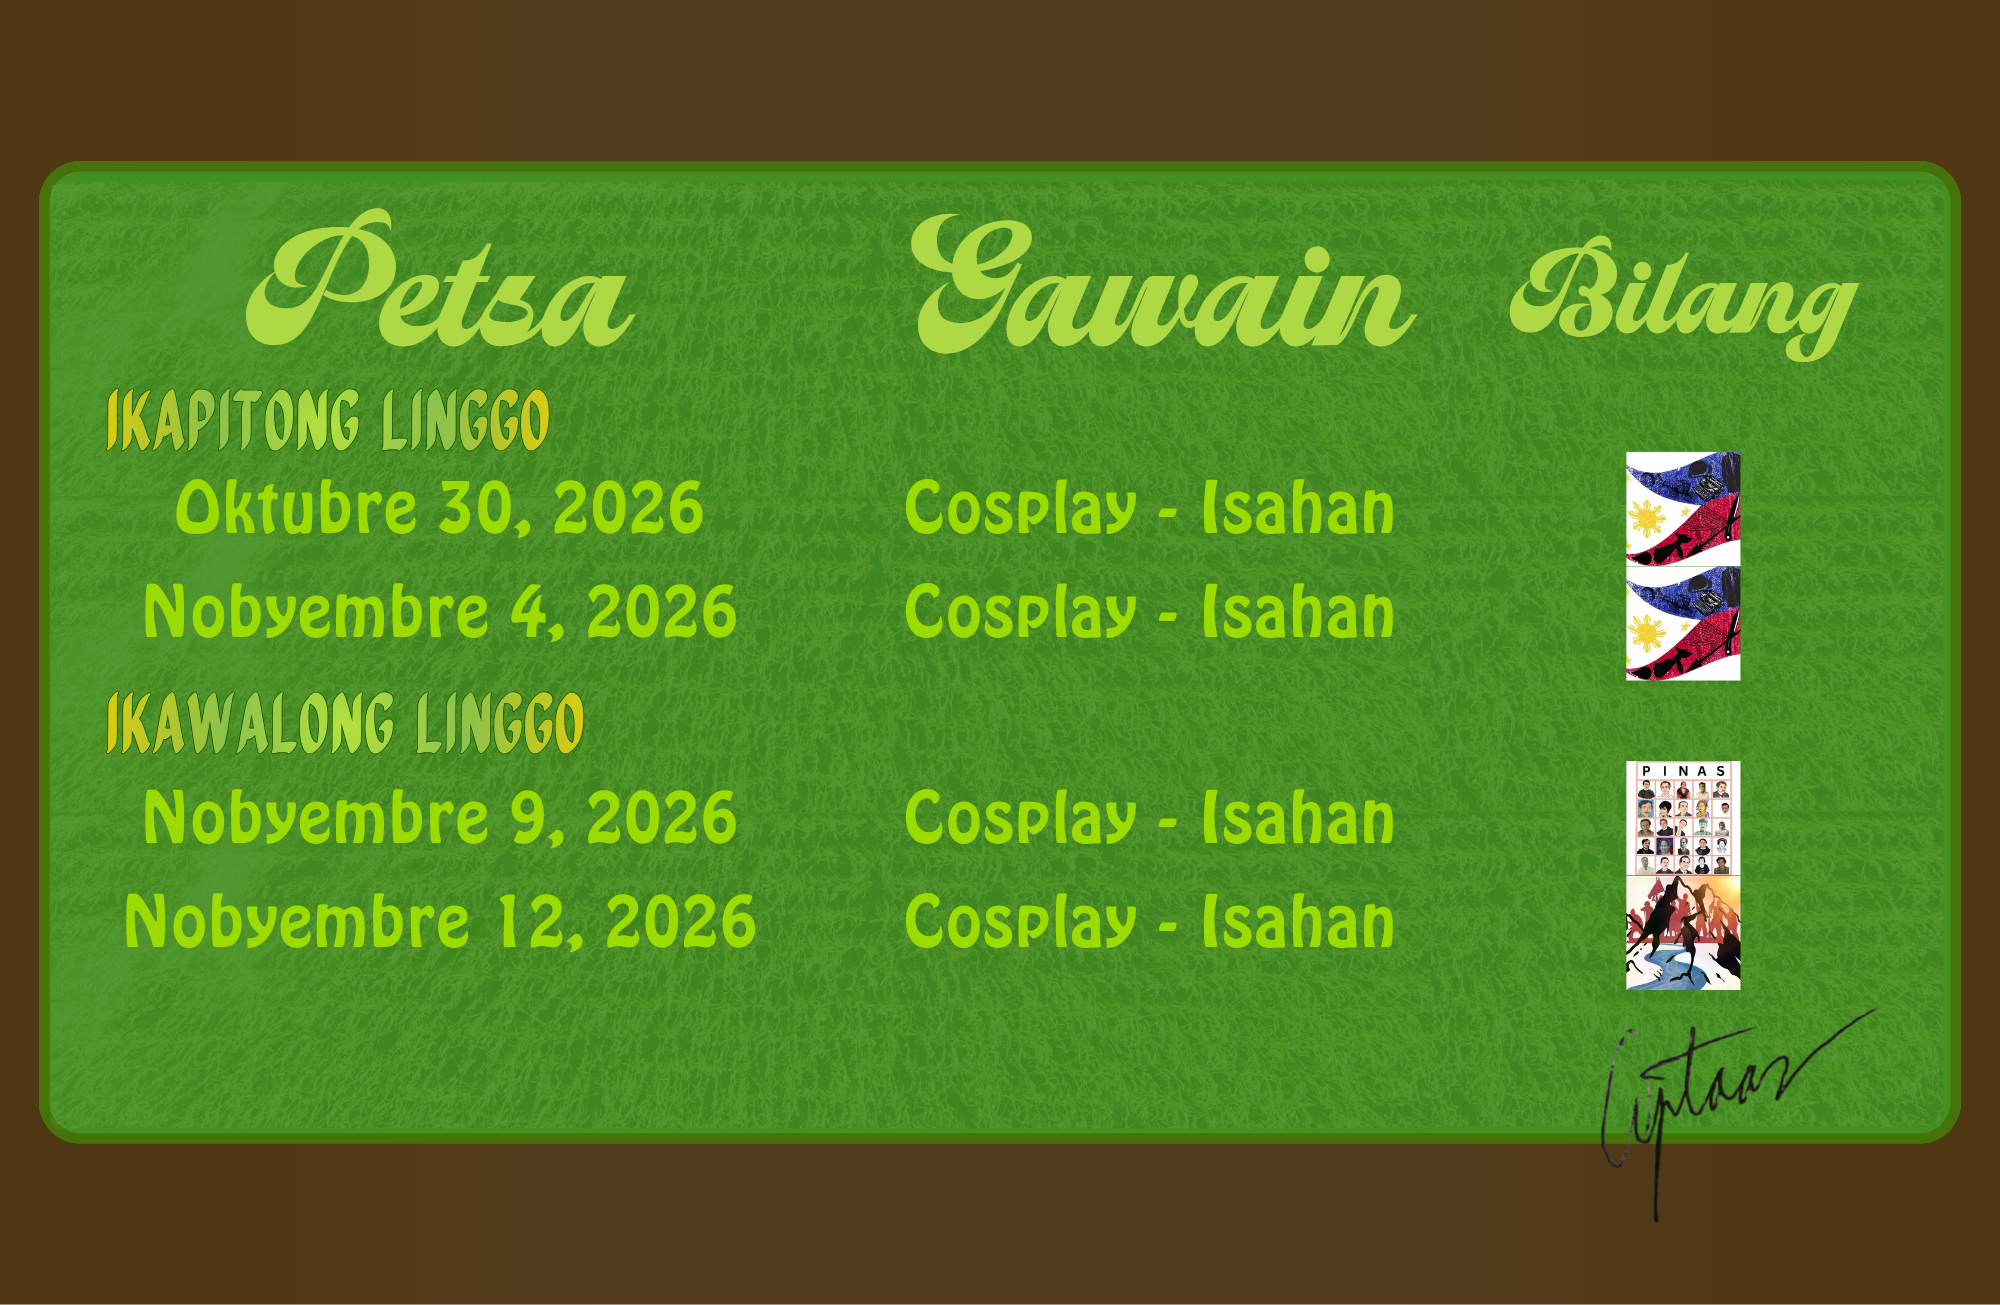
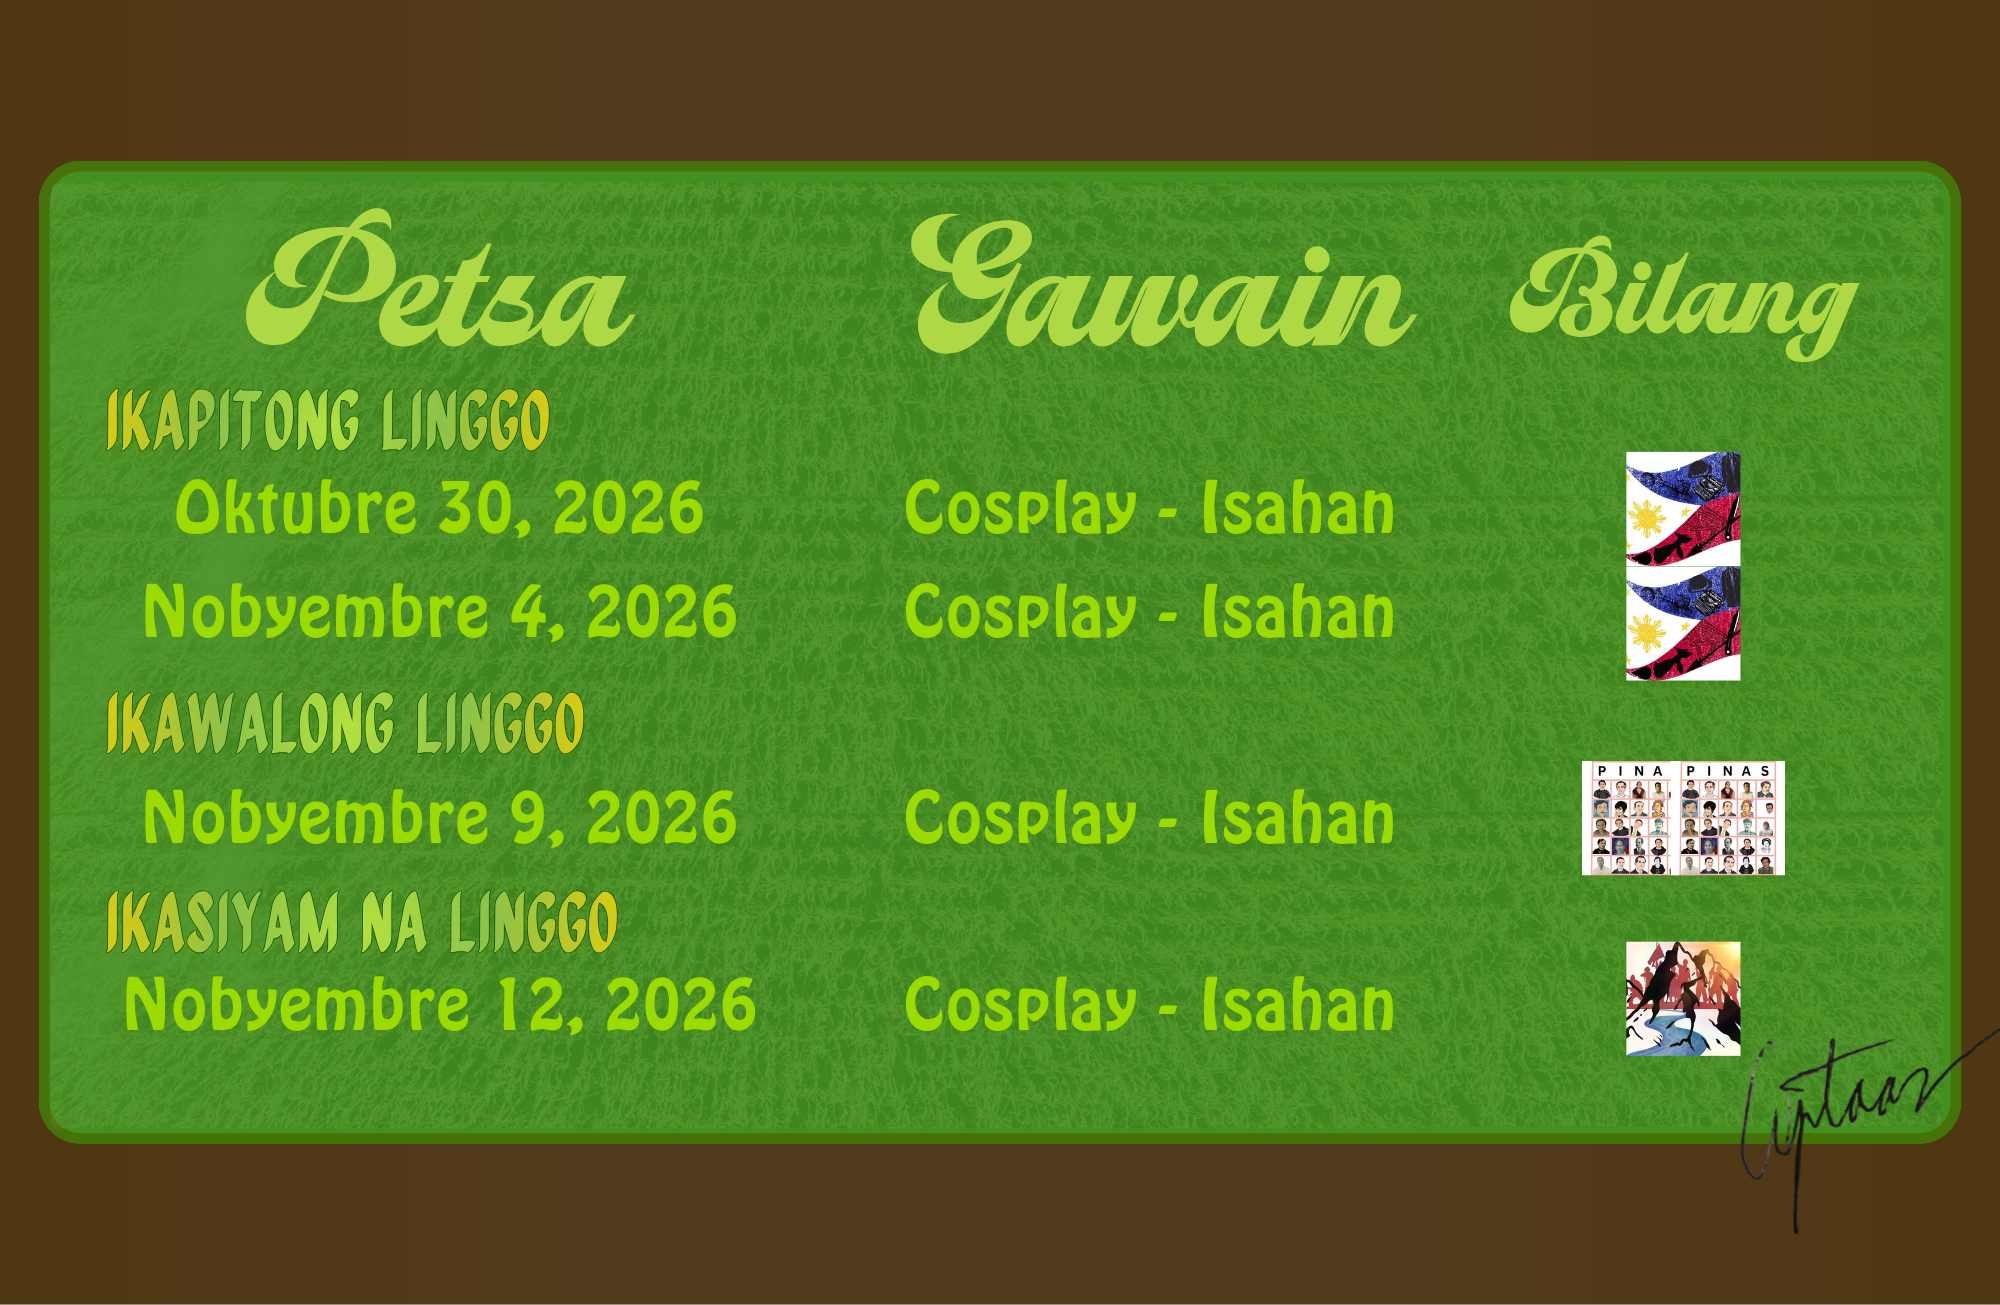
Add files via upload

diff --git a/index2.html b/index2.html
@@ -12,7 +12,7 @@
       Maayong hapon Bb. Ma. Kathleen Adona!
     </div>
    
-    <h3 id="h3">Ikawalong linggo ng Pakikilahok</h3>
+    <h3 id="h3">Ikawalo at Ikasiyam na linggo ng Pakikilahok</h3>
    
     <a class="btn" href="index3.html">Puntahan</a>
     
